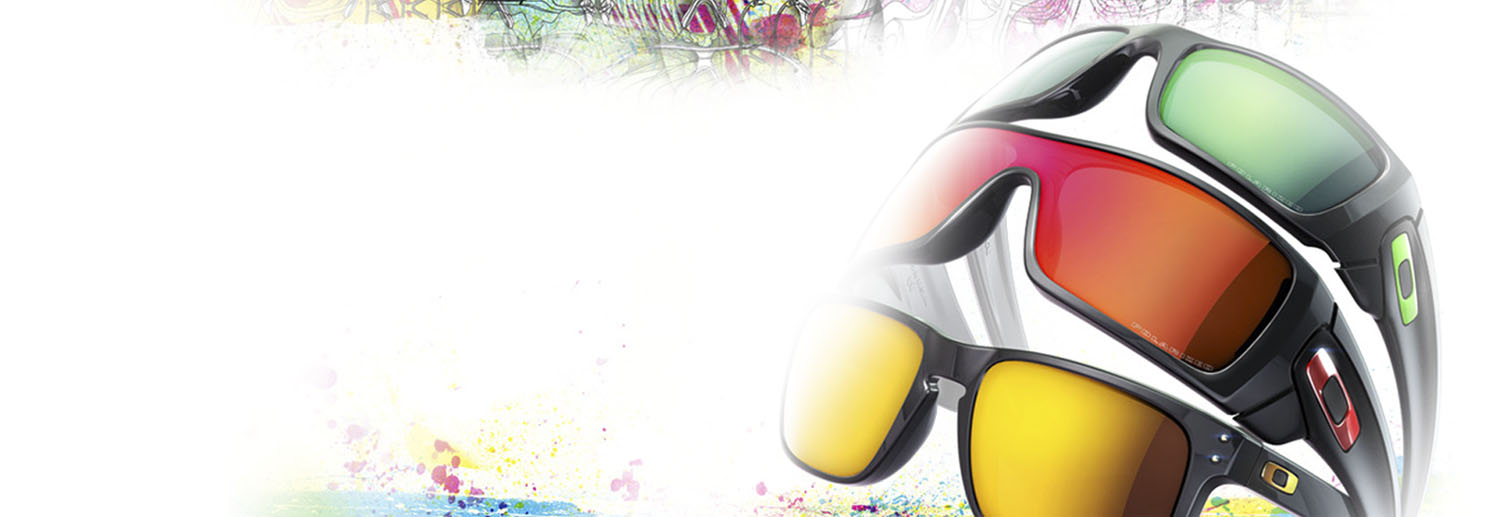
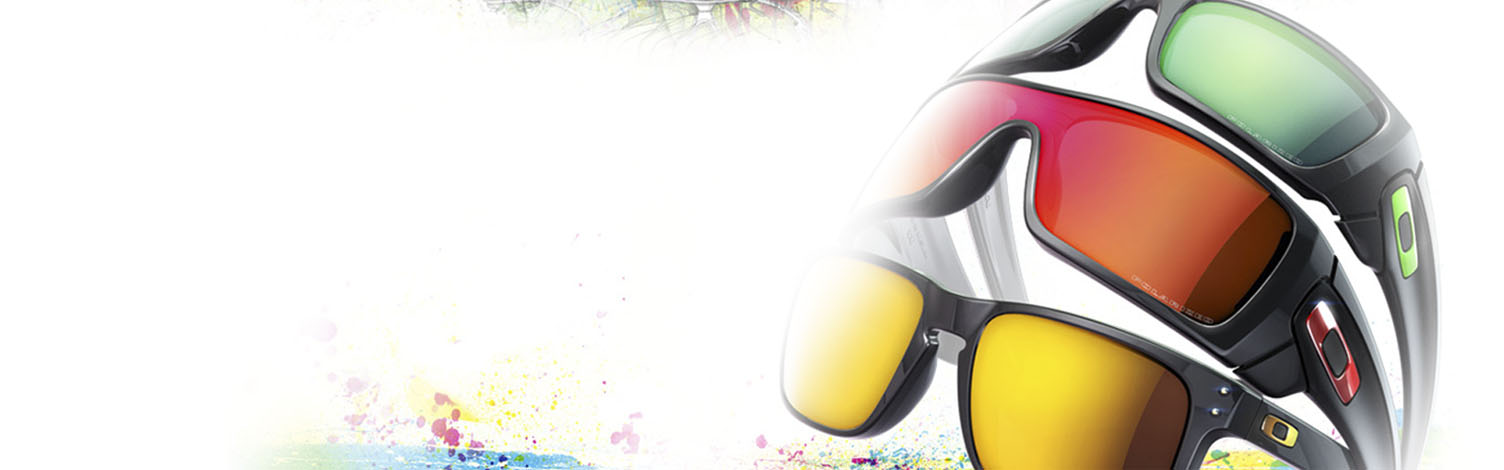
commit

Changed region(s): [[0.1875, 0.0, 0.9688, 1.0], [0.2188, 0.7745, 0.4375, 1.0], [0.5, 0.8638, 0.5312, 0.8936]]

diff --git a/css/main.css b/css/main.css
@@ -266,7 +266,7 @@ button.drop-down:active {
 
 .main-slider {
     height: 470px;
-    background: url(../img/slider-bg.png);
+    background: url(../img/slider-bg.jpg);
     background-repeat: no-repeat;
     background-position: top center;
     /*opacity: 0.7;*/
